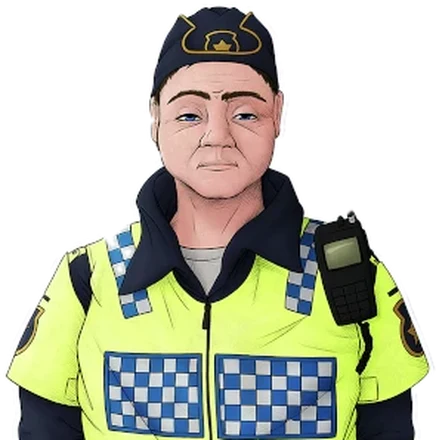
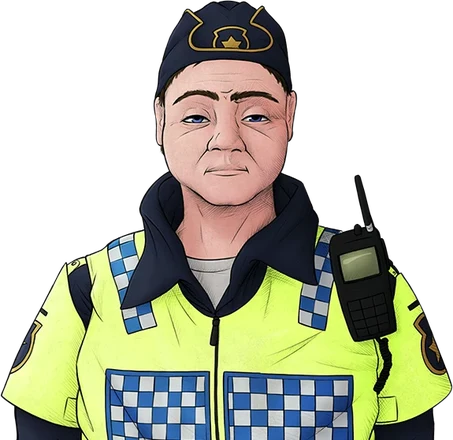
Cast row: clean Oskar picture
Claude-Session: https://claude.ai/code/session_013vweda7C13R9UatxVzfQ4g

Changed region(s): [[0.0, 0.0, 1.0, 1.0]]

diff --git a/index.html b/index.html
@@ -140,7 +140,7 @@
                             <figcaption class="sos-cast-tag"><span class="sos-cast-name">Ethos</span><span class="sos-cast-role" data-en="Professor" data-sv="Professor">Professor</span></figcaption>
                         </figure>
                         <figure class="sos-cast-person">
-                            <img src="images/cast-oskar.webp" alt="Oskar" loading="lazy">
+                            <img src="images/cast-oskar.webp?v=2" alt="Oskar" loading="lazy">
                             <figcaption class="sos-cast-tag"><span class="sos-cast-name">Oskar</span><span class="sos-cast-role" data-en="Police chief" data-sv="Polischef">Police chief</span></figcaption>
                         </figure>
                         <figure class="sos-cast-person">

diff --git a/CLAUDE.md b/CLAUDE.md
@@ -93,7 +93,7 @@ Joel wants a new homepage design where the game and graphs are more visible. Wor
 5. Never change `build/`, `backend/`, `pages/`, `.htaccess` or Henrik's files to make this work.
 6. The new design adds a `downloads/` folder (educator guide PDF `downloads/saving-of-swedovia-educator-guide.pdf`). In the handoff, tell Joel to create a `downloads` folder at the top level on One.com and upload the PDF into it (new folder, nothing to back up).
 6b. New images used by the design must also be uploaded to One.com's `images/` folder: `game-patrols.webp`, `game-forest.webp`, `game-fire-dilemma.webp`, and the cast cut-outs `cast-ethos.webp`, `cast-oskar.webp`, `cast-ake.webp`, `cast-layla.webp`, `cast-anna.webp`, `cast-johan.webp` (cut from Joel's screenshots; swap for clean originals if Joel provides them).
-6e. About has a cast row "Some of the people you will meet in the game" (`.sos-cast`): Ethos (Professor), Oskar (Police chief, cut out by Claude from a screenshot), Åke (Rescue commander; Swedish: Insatsledare), Layla (Medical commander), Anna (Politician?), Johan (Civil servant?). Anna's and Johan's roles are Claude's guesses: confirm with Joel.
+6e. About has a cast row "Some of the people you will meet in the game" (`.sos-cast`): Ethos (Professor), Oskar (Police chief, clean picture from Joel), Åke (Rescue commander; Swedish: Insatsledare), Layla (Medical commander), Anna (Politician?), Johan (Civil servant?). Anna's and Johan's roles are Claude's guesses: confirm with Joel.
 6g. Education examples: Distribution = police patrols (`game-patrols.webp`), Dilemma = firefighters (`game-fire-dilemma.webp`).
 6h. Scenario process (About, `#made`): identify dilemmas → interviews → update scenarios → interviews again (repeated) → finished scenarios → into the survey AND into the game. The scenario method is under development and will be presented in Research (`#method`).
 6i. Swedovia is a fictional TOWN (Swedish: staden), not a country. Survey results (what Swedish citizens thought should be done) were built into the game itself.
